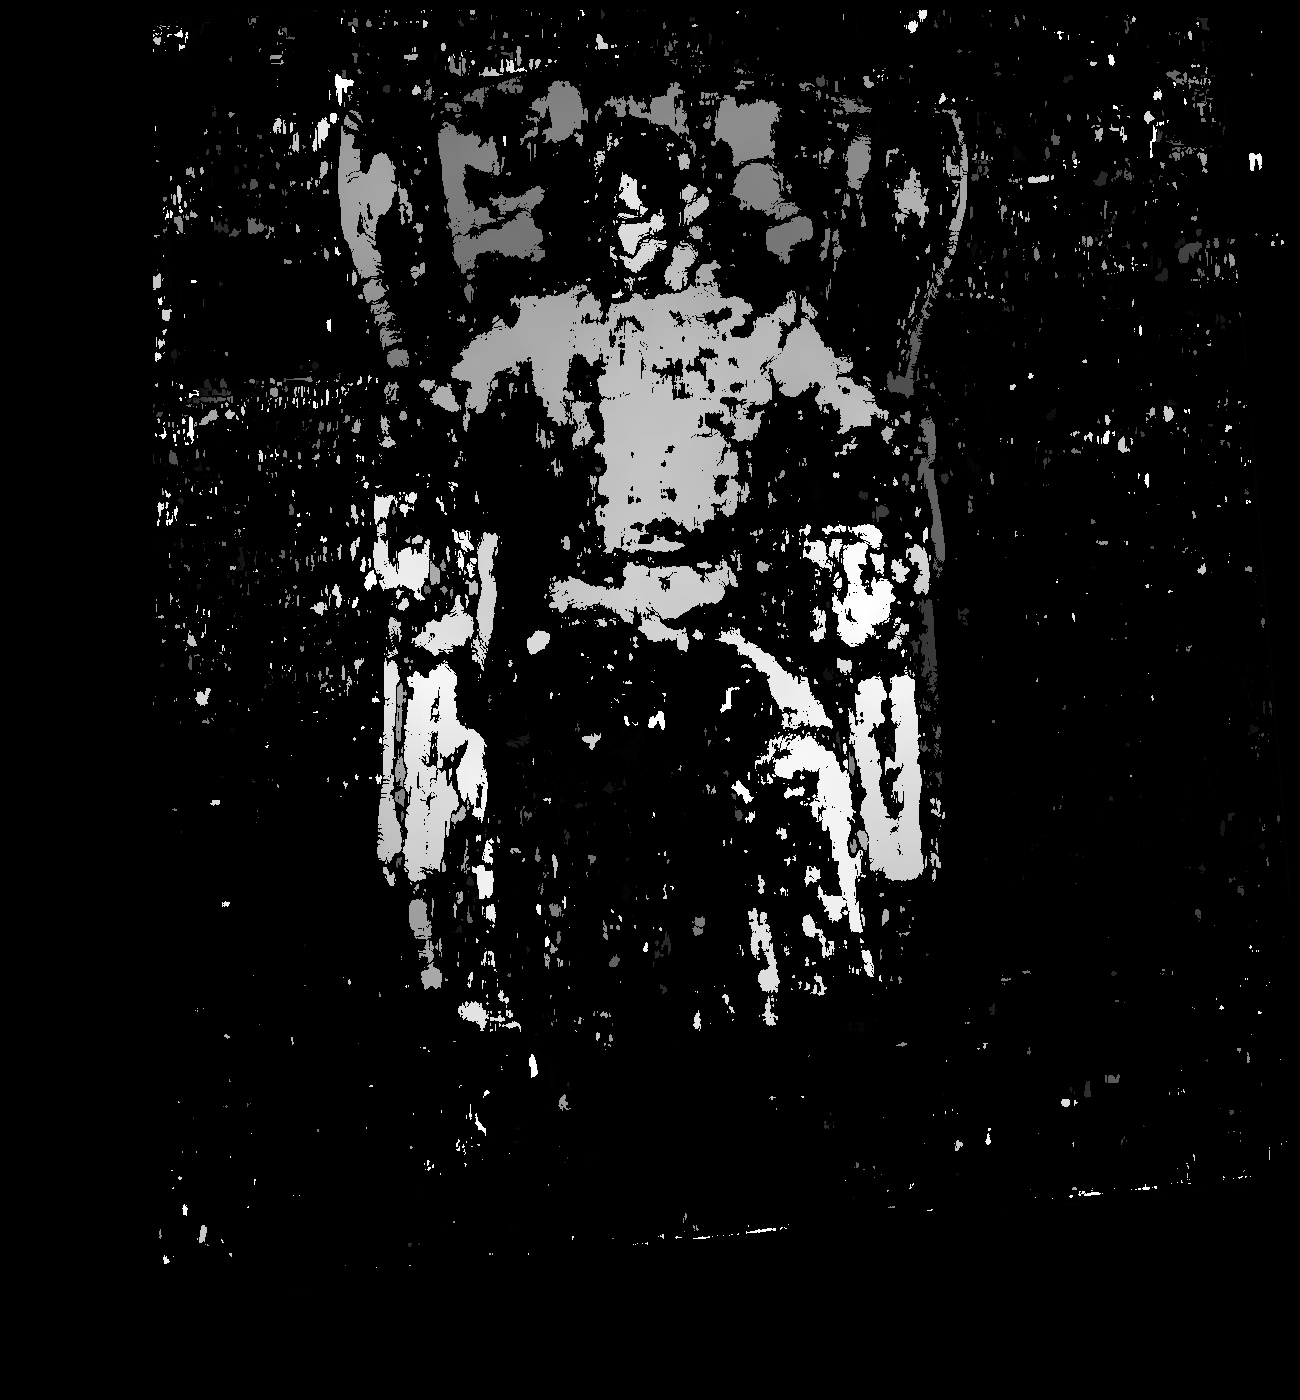
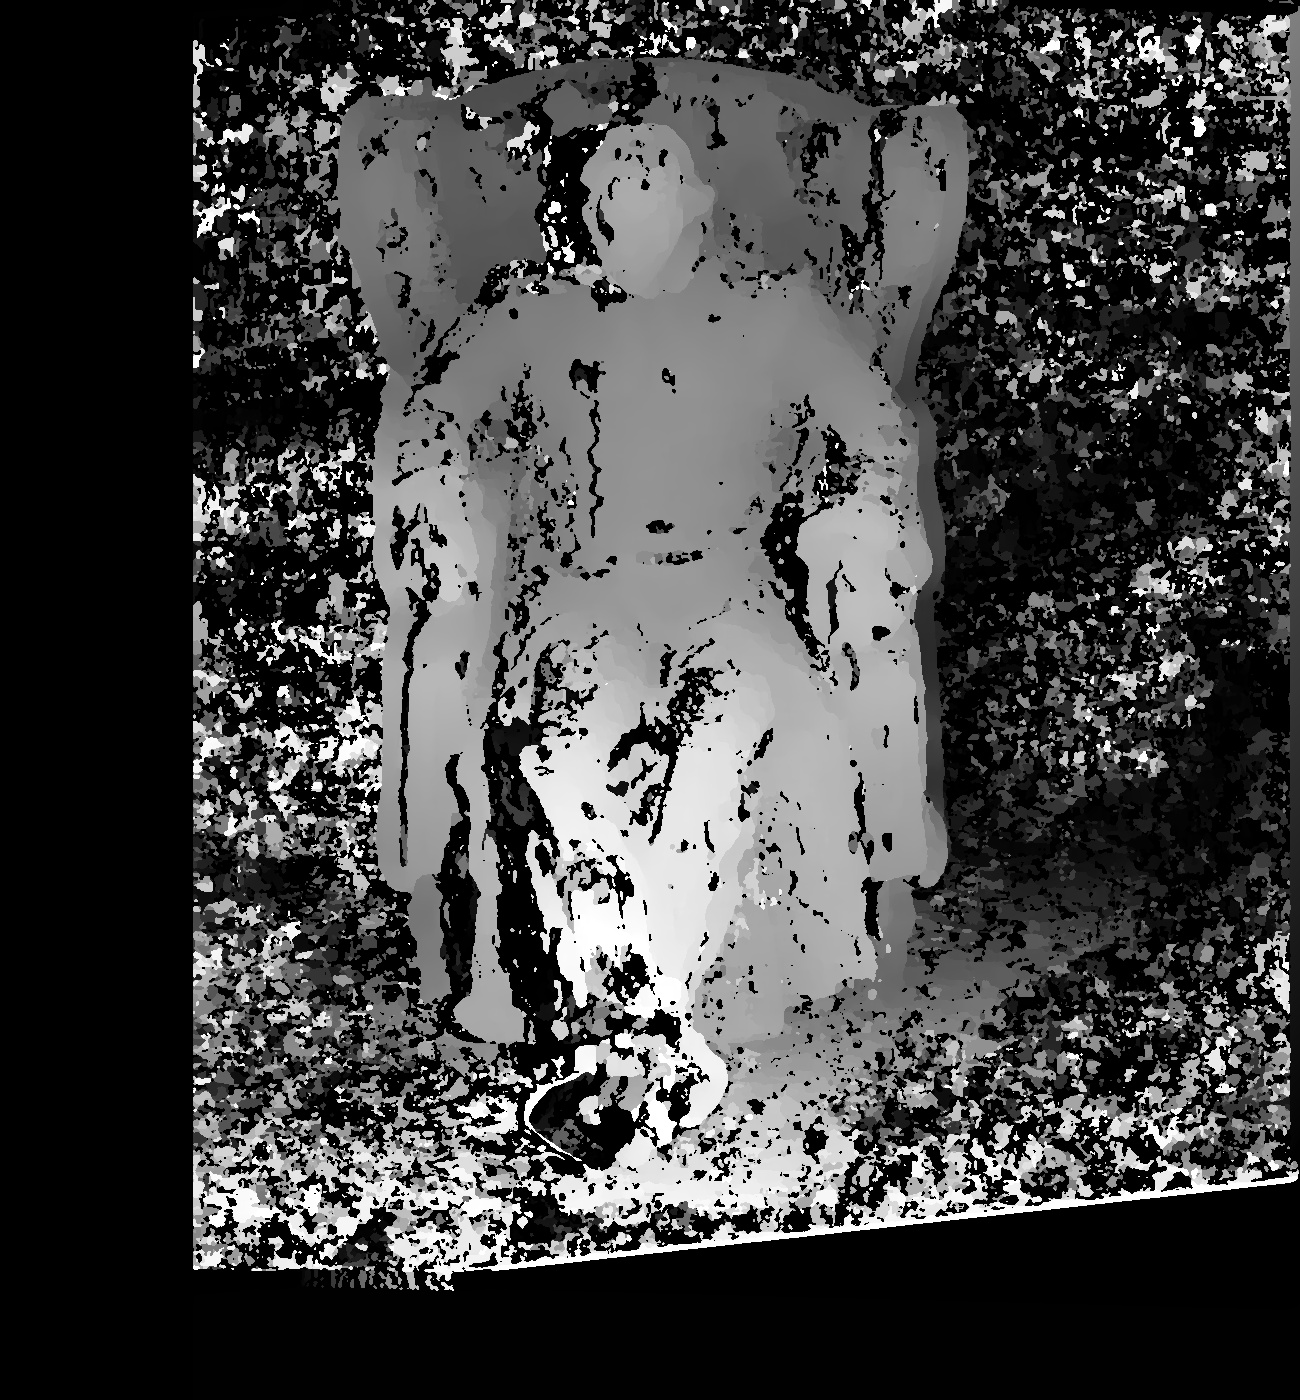
use stereosgbm

diff --git a/src/pd3.py b/src/pd3.py
@@ -66,7 +66,7 @@ def findPixelMatch(leftImage, rightImage, windowSize, numDisparities=128):
     #    Se não hover correspondencia retorna none
     #    Se houver retorna a coordenada da correspondencia
     #function
-    stereo = cv2.StereoBM_create(numDisparities=numDisparities, blockSize=windowSize)
+    stereo = cv2.StereoSGBM_create(numDisparities=numDisparities, blockSize=windowSize)
     lGray = cv2.cvtColor(leftImage, cv2.COLOR_BGR2GRAY)
     rGray = cv2.cvtColor(rightImage, cv2.COLOR_BGR2GRAY)
     return stereo.compute(lGray,rGray)
@@ -78,6 +78,8 @@ def getWorldCoords(leftImage, corMatrix):
     x = BASELINE * (2 * x_coords - corMatrix) / (2 * corMatrix)
     y = BASELINE * (2 * y_coords) / (2 * corMatrix)
     z = BASELINE * FOCAL_DISTANCE  /   corMatrix
+    z[z >= np.inf] = -np.inf
+    z[z <= -np.inf] = np.max(z) + 1
     return x, y, z
 
 
@@ -209,7 +211,7 @@ def measureBox(bonus):
         leftImage = openImage("../data/MorpheusL.jpg")
         rightImage = openImage("../data/MorpheusR.jpg")
         rotation = getRotation(MORPHEUS_LEFT_ROTATION, MORPHEUS_RIGHT_ROTATION)
-        translation = getTranslation(rotation, MORPHEUS_LEFT_TRANSLATION.T, MORPHEUS_RIGHT_TRANSLATION.T)
+        translation = getTranslation(rotation, MORPHEUS_LEFT_TRANSLATION, MORPHEUS_RIGHT_TRANSLATION)
 
         r1, r2, p1, p2, q, _, _ = cv2.stereoRectify(MORPHEUS_LEFT_CAMERA, None, MORPHEUS_RIGHT_CAMERA, None,
                                                     leftImage.shape[0:2], rotation, translation, flags=0)
@@ -266,7 +268,7 @@ def tuneParameters(req, leftImage, rightImage, q=None):
 
     cv2.namedWindow('disp', cv2.WINDOW_NORMAL)
 
-    cv2.createTrackbar('numOfDisparities', 'disp', 1, 20, nothing)
+    cv2.createTrackbar('numOfDisparities', 'disp', 12, 20, nothing)
     cv2.createTrackbar('windowSize', 'disp', 5, 255, nothing)
 
     while(True):
@@ -284,16 +286,15 @@ def tuneParameters(req, leftImage, rightImage, q=None):
         k = cv2.waitKey(1) & 0xFF
         if k == 27:
             break
-    if req == "r1" or req == "r2":
+    if req == "r1":
         x, y, z = getWorldCoords(leftImage, corMatrix)
     else:
-        worldCoords = cv2.reprojectImageTo3D(corMatrix, q, handleMissingValues=True)
+        worldCoords = cv2.reprojectImageTo3D(corMatrix, q, handleMissingValues=False)
         x, y, z = worldCoords[:,:,0], worldCoords[:,:,1], worldCoords[:,:,2]
-    z[z == np.inf] = -np.inf
-    z[z == -np.inf] = np.max(z)
     depthMatrix = normalize(z)
     cv2.destroyAllWindows()
     cv2.waitKey(1)
+
 
     return dispMatrix, depthMatrix, corMatrix, (x, y, z)
 
